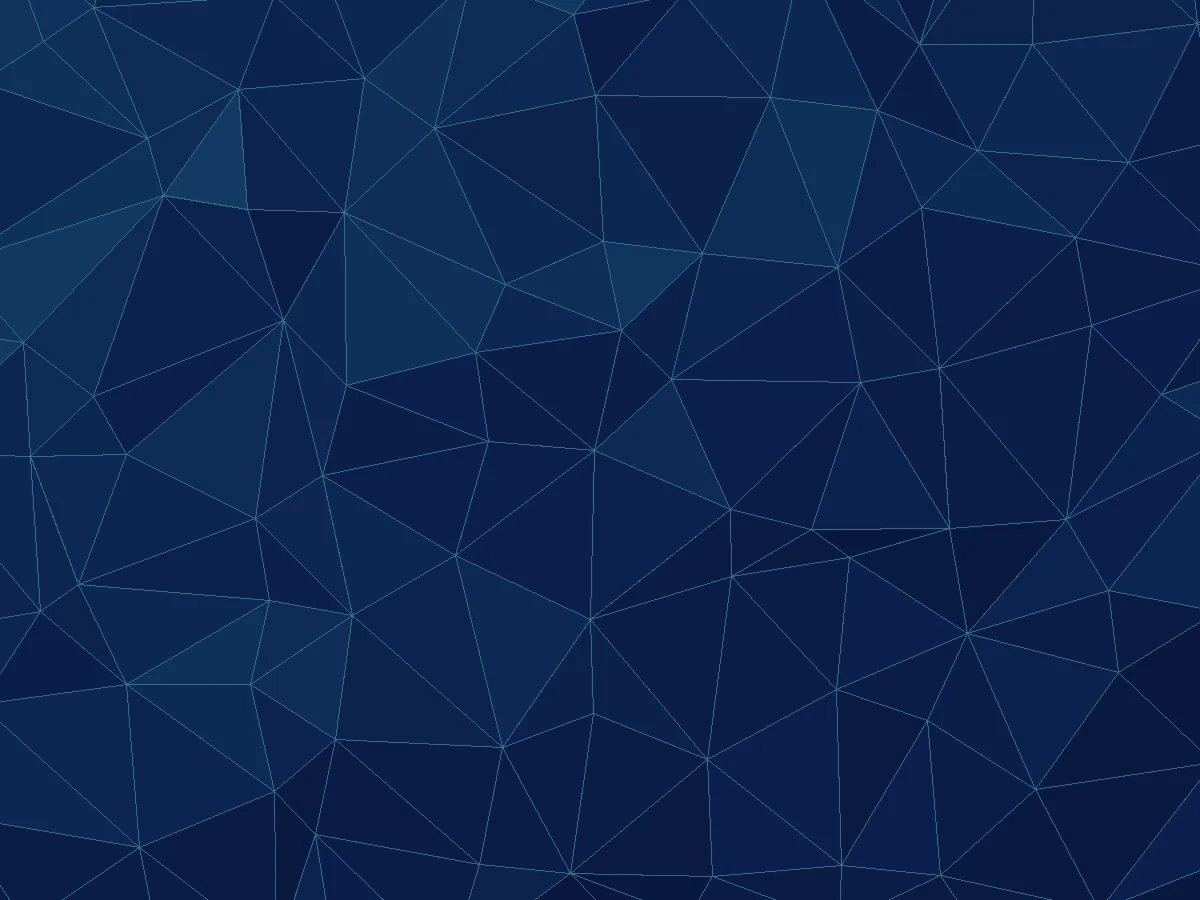
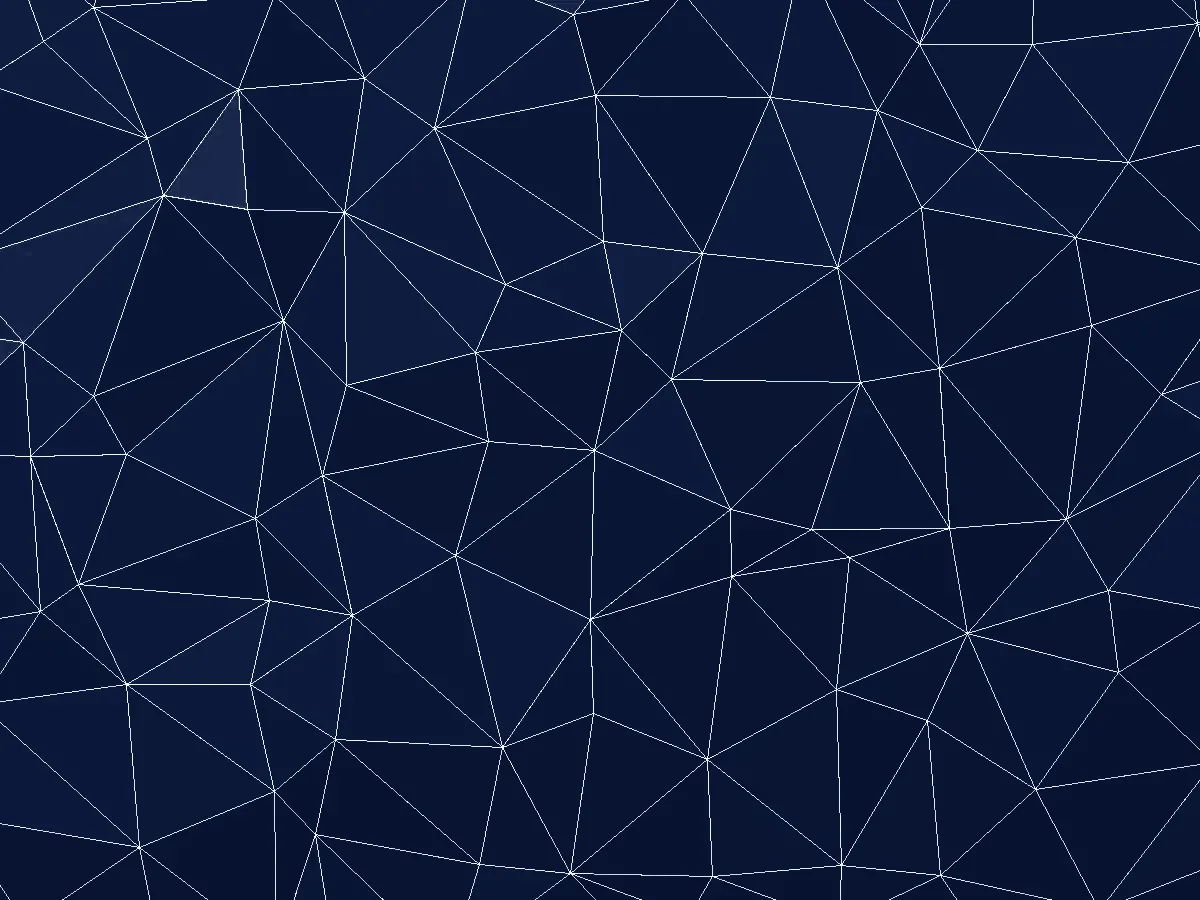
Add files via upload

diff --git a/assets/css/style.css b/assets/css/style.css
@@ -2308,3 +2308,46 @@ html[lang="en"] .hero h1.hero__kvtitle{font-size:clamp(1.75rem,3.5vw,3.5rem)}
   #pvx-p5 .pvx__media img{object-position:55% 30%}
   #pvx-p6 .pvx__media img{object-position:60% 25%}
 }
+
+/* =====================================================================
+   v0.59 · Màu 3 hạng theo mã của đối tác (02/11)
+   Platinum #687798 (xanh xám) · Diamond #E3E6EA (trắng xanh) · Elite #D5AE95 (nâu)
+   Mỗi hạng có 5 tông: hi (sáng nhất) · lt (sáng) · base (mã gốc) · dk (đậm) · tint (phủ nền)
+   --tc là màu chữ/điểm nhấn trên nền navy: Platinum dùng bản sáng hơn của mã gốc để đủ tương phản.
+   ===================================================================== */
+:root{
+  --plat-hi:#DDE2EC;--plat-lt:#A9B4CC;--plat:#687798;--plat-dk:#3E4A68;--plat-tc:#9DA9C5;
+  --dia-hi:#FFFFFF;--dia-lt:#F1F3F6;--dia:#E3E6EA;--dia-dk:#9AA2AF;--dia-tint:#8E97A6;
+  --eli-hi:#F6E8DE;--eli-lt:#E6C7B2;--eli:#D5AE95;--eli-dk:#9C7259;--eli-tint:#8E644B;
+  --mat-plat:linear-gradient(135deg,#DDE2EC 0%,#A9B4CC 28%,#687798 52%,#C3CCDD 72%,#56638A 100%);
+  --mat-dia:linear-gradient(135deg,#FFFFFF 0%,#EEF0F3 28%,#BCC2CC 52%,#F8F9FA 72%,#A7AEBA 100%);
+  --mat-eli:linear-gradient(135deg,#F6E8DE 0%,#E6C7B2 28%,#B58B70 52%,#EED6C6 74%,#9C7259 100%);
+}
+/* Hành trình: thẻ, popup, mốc */
+.step,.step.step--plat,.step-pop,.step-pop.step--plat{--tc:var(--plat-tc);--tint:var(--plat);--g1:var(--plat-hi);--g2:#56638A;--g3:var(--plat-lt)}
+.step.step--dia,.step-pop.step--dia{--tc:var(--dia);--tint:var(--dia-tint);--g1:var(--dia-hi);--g2:var(--dia-dk);--g3:var(--dia)}
+.step.step--eli,.step-pop.step--eli{--tc:var(--eli);--tint:var(--eli-tint);--g1:var(--eli-hi);--g2:var(--eli-dk);--g3:var(--eli)}
+.anode,.anode.anode--plat{--tc:var(--plat-lt)}
+.anode.anode--dia{--tc:var(--dia)}
+.anode.anode--eli{--tc:var(--eli)}
+.ascend::before{background:linear-gradient(180deg,color-mix(in srgb,var(--plat-lt) 70%,transparent),var(--dia) 50%,var(--eli))}
+/* Đặc quyền: 3 ô hạng */
+.pvx__tier.pvx__tier--plat{--tc:var(--plat-tc);--tline:rgba(169,180,204,.8);background:linear-gradient(180deg,rgba(104,119,152,.58) 0%,rgba(104,119,152,0) 100%)}
+.pvx__tier.pvx__tier--dia{--tc:var(--dia);--tline:rgba(227,230,234,.85);background:linear-gradient(180deg,rgba(154,162,175,.46) 0%,rgba(154,162,175,0) 100%)}
+.pvx__tier.pvx__tier--eli{--tc:var(--eli);--tline:rgba(213,174,149,.85);background:linear-gradient(180deg,rgba(156,114,89,.6) 0%,rgba(156,114,89,0) 100%)}
+.pvx__tier--plat b{color:#C3CCDD}
+.pvx__tier--dia b{color:var(--dia)}
+.pvx__tier--eli b{color:var(--eli-lt)}
+.pvx__tier--plat .pvx__v i::before{background:var(--plat-lt)}
+.pvx__tier--dia .pvx__v i::before{background:var(--dia)}
+.pvx__tier--eli .pvx__v i::before{background:var(--eli)}
+/* Emblem hạng (Đặc quyền, Điều kiện) */
+.tcard--plat .emblem,.cmp__tier--plat .emblem,.pvx__tier--plat .emblem{--tc:var(--plat-lt);background:radial-gradient(110% 80% at 25% 8%,rgba(255,255,255,.85) 0%,rgba(255,255,255,0) 50%),radial-gradient(90% 70% at 80% 100%,rgba(221,226,236,.9) 0%,rgba(221,226,236,0) 55%),#8F9CBA}
+.tcard--dia .emblem,.cmp__tier--dia .emblem,.pvx__tier--dia .emblem{--tc:var(--dia);background:radial-gradient(110% 80% at 25% 8%,#FFFFFF 0%,rgba(255,255,255,0) 50%),radial-gradient(90% 70% at 80% 100%,#FFFFFF 0%,rgba(255,255,255,0) 55%),#DCE0E6}
+.tcard--eli .emblem,.cmp__tier--eli .emblem,.pvx__tier--eli .emblem{--tc:var(--eli);background:linear-gradient(180deg,#F8EDE5 0%,#E8CBB7 28%,#C49A7F 56%,#E2C0A9 82%,#F6E8DE 100%)}
+/* Điều kiện: thẻ hạng */
+.tcard.tcard--plat{--tc:#C3CCDD;--tint:rgba(104,119,152,.1);--tline:rgba(169,180,204,.22);--num:linear-gradient(180deg,#FFFFFF 0%,#DDE2EC 40%,#7E8BAA 54%,#EEF1F6 80%,#A9B4CC 100%);box-shadow:inset 0 0 0 1px var(--tline),inset 0 -60px 100px -70px rgba(104,119,152,.3)}
+.tcard.tcard--dia{--tc:var(--dia);--tint:rgba(227,230,234,.05);--tline:rgba(227,230,234,.22);--num:linear-gradient(180deg,#FFFFFF 0%,#F1F3F6 40%,#AEB5C0 54%,#FAFBFC 80%,#D3D7DE 100%);box-shadow:inset 0 0 0 1px var(--tline),inset 0 -60px 100px -70px rgba(227,230,234,.14)}
+.tcard.tcard--eli{--tc:var(--eli);--tint:rgba(156,114,89,.12);--tline:rgba(213,174,149,.3);--num:linear-gradient(180deg,#FFF6EF 0%,#E8CBB7 40%,#B58B70 54%,#F6E8DE 80%,#D5AE95 100%);box-shadow:inset 0 0 0 1px var(--tline),inset 0 -60px 100px -70px rgba(156,114,89,.28)}
+.tcard--eli::after{background:conic-gradient(from var(--ang),transparent 0deg,transparent 200deg,#F6E8DE 300deg,#9C7259 340deg,transparent 360deg)}
+html.figma-static .tcard--eli{box-shadow:inset 0 0 0 1px rgba(213,174,149,.4)}

diff --git a/assets/js/main.js b/assets/js/main.js
@@ -436,7 +436,7 @@ document.querySelectorAll('main > section, .hero, footer, .silk').forEach(s=>io.
 
 /* v0.30 · Chèn viền SVG "tô sáng dần" cho 3 thẻ hạng */
 (()=>{const steps=document.querySelectorAll('.ascend .step');const NS='http://www.w3.org/2000/svg';
-const pal={plat:['#FFFFFF','#E6EAF0','#9AA4B4'],dia:['#F4FEFF','#C2F0F1','#4FB3BC'],eli:['#FFF4F0','#F0C3BA','#B5635F']};
+const pal={plat:['#DDE2EC','#A9B4CC','#687798'],dia:['#FFFFFF','#E3E6EA','#9AA2AF'],eli:['#F6E8DE','#D5AE95','#9C7259']};/* v0.59 màu hạng mới */
 steps.forEach((s,i)=>{const f=s.querySelector('.step__frame');if(!f||f.querySelector('.step__trace'))return;
   const k=s.classList.contains('step--eli')?'eli':s.classList.contains('step--dia')?'dia':'plat',c=pal[k],id='trg'+i;
   const svg=document.createElementNS(NS,'svg');svg.setAttribute('class','step__trace');svg.setAttribute('aria-hidden','true');
